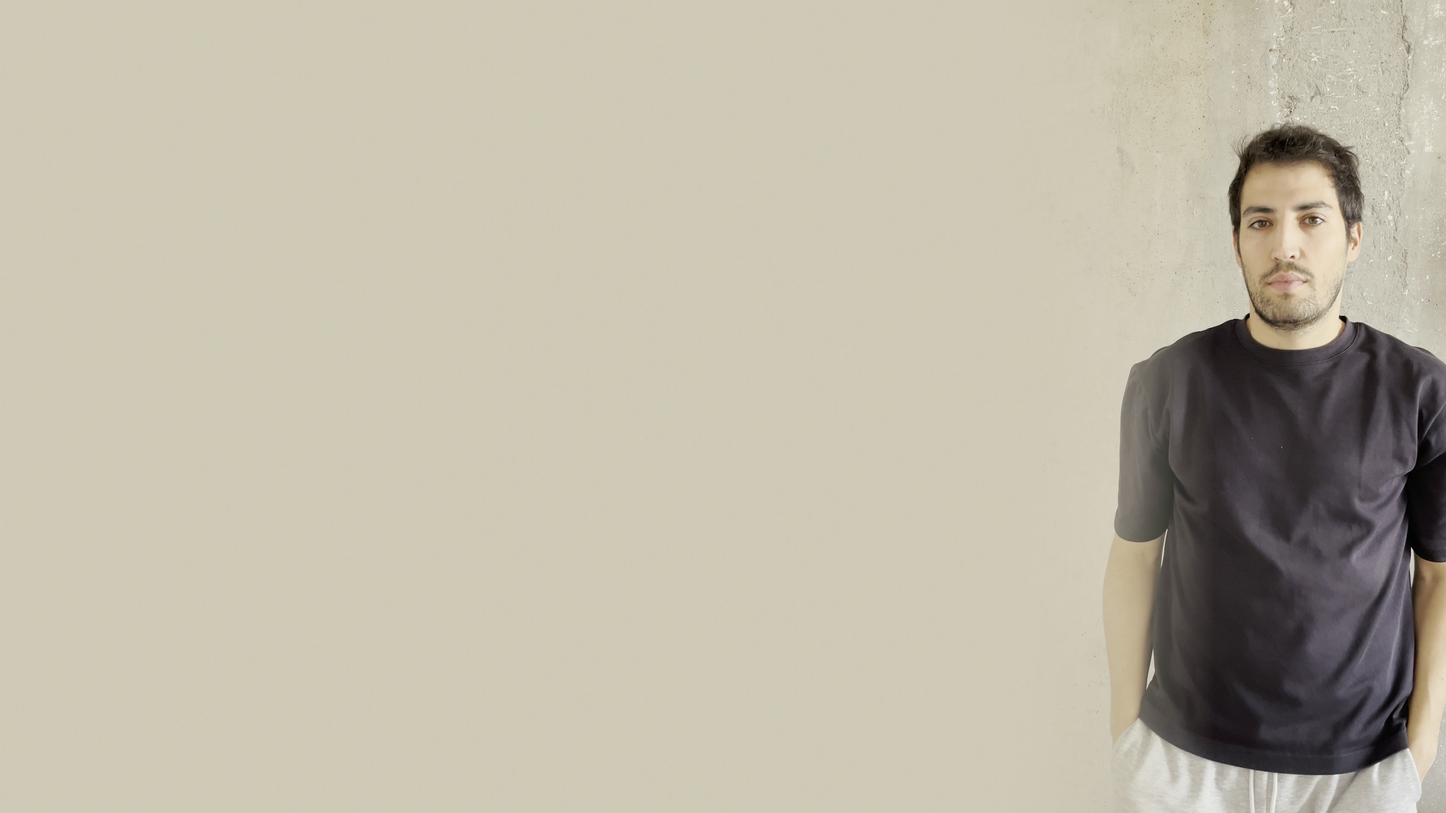
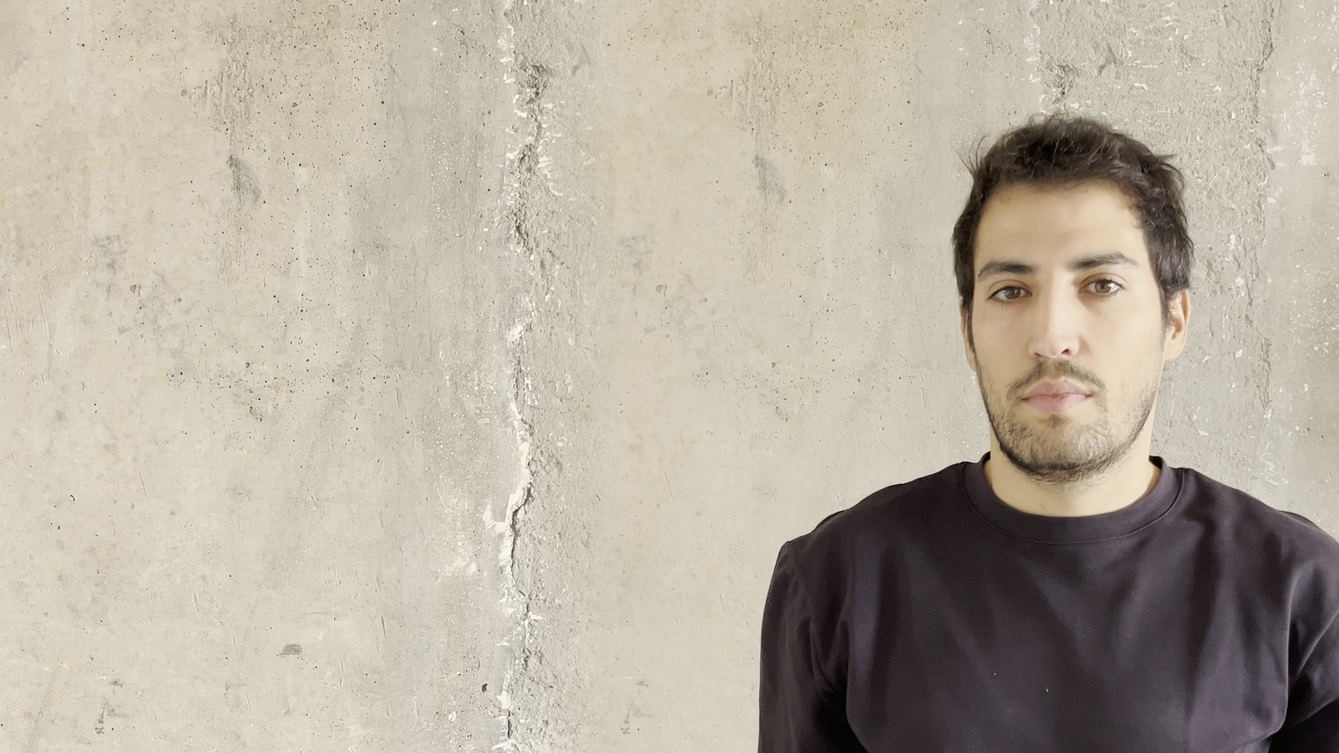
Hero: full-width concrete wall with Martin on the right
- Desktop (>=1200px): wall fills the first screen; composite from the
  45.5 s frame (head to mid-chest, full resolution) plus the clip's
  empty-wall frames extending the wall left; headline on the wall over a
  page-colour wash (55% light / 82% dark token), bottom fades to cream
- Tablets: same wide image, 16:9 above the text; phones: full-resolution
  head-and-shoulders crop; one <picture> serves each device its own file

diff --git a/components/Hero.module.css b/components/Hero.module.css
@@ -1,4 +1,5 @@
-/* Phones: the photo stacks above the text, its bottom fading into the page. */
+/* Phones: the head-and-shoulders crop stacks above the text, its bottom
+   fading into the page. */
 .photo {
   position: relative;
   aspect-ratio: 4 / 3;
@@ -10,16 +11,27 @@
   background: linear-gradient(to bottom, transparent 55%, var(--bg) 100%);
 }
 
-/* Desktop: the photo fills the whole Hero. The gradient is solid page colour
-   behind the text column (which ends at ~55% of the width) and clears towards
-   the right, where the subject is. */
-/* Phones: the crop is already framed on the face. Desktop: keep the subject,
-   on the right of the wide composite, in frame. */
+/* Phones: the crop is already framed on the face. */
 .image {
   object-position: 50% 30%;
 }
 
-@media (min-width: 768px) {
+/* Tablets: the wide image, still stacked above the text. */
+@media (min-width: 768px) and (max-width: 1199.98px) {
+  .photo {
+    aspect-ratio: 16 / 9;
+  }
+
+  .image {
+    object-position: var(--hero-focus);
+  }
+}
+
+/* Wide screens (≥1200px; narrower ones put the subject under the text): the
+   concrete wall fills the whole first screen, the subject on the right. A page-colour wash on the left keeps the headline readable (its
+   strength is a token: light text in dark mode needs more), and the bottom
+   fades into the page so the hero ends on the site's own colour. */
+@media (min-width: 1200px) {
   .image {
     object-position: var(--hero-focus);
   }
@@ -31,12 +43,13 @@
   }
 
   .gradient {
-    background: linear-gradient(
-      to right,
-      var(--bg) 0,
-      var(--bg) 55%,
-      color-mix(in oklab, var(--bg) 60%, transparent) 64%,
-      transparent 80%
-    );
+    background:
+      linear-gradient(to bottom, transparent 72%, var(--bg) 100%),
+      linear-gradient(
+        to right,
+        color-mix(in oklab, var(--bg) var(--hero-wash), transparent) 0,
+        color-mix(in oklab, var(--bg) var(--hero-wash), transparent) 48%,
+        transparent 66%
+      );
   }
 }

diff --git a/components/Hero.tsx b/components/Hero.tsx
@@ -3,9 +3,10 @@ import type { CSSProperties } from "react";
 import { profile } from "@/content/profile";
 import s from "./Hero.module.css";
 
-// Desktop: the photo fills the Hero behind the text, under a cream gradient
+// Wide screens (≥1200px): the photo fills the Hero behind the text, under a cream gradient
 // that is solid behind the text column and clears on the right where the
-// subject is. Phones: the photo sits above the text and fades into the page.
+// subject is. Narrower screens: the photo sits above the text and fades into
+// the page (phones get a head-and-shoulders crop, tablets the wide image).
 // The section fills the first screen below the site header (4.75rem), so the
 // dark Work section never peeks in on load.
 export function Hero() {
@@ -47,7 +48,7 @@ export function Hero() {
       </div>
 
       <div className="relative container-page grid flex-1 content-center pt-6 pb-16 md:py-16">
-        <div className="md:w-[55%]">
+        <div className="min-[1200px]:w-[55%]">
           <h1 className="text-display text-balance">{profile.jobTitle}</h1>
           <p className="mt-6 text-2xl font-medium tracking-tight md:text-3xl">
             {profile.tagline}

diff --git a/content/profile.ts b/content/profile.ts
@@ -17,15 +17,17 @@ export const profile = {
   linkedin: "https://www.linkedin.com/in/martin-calo-garcia/",
   github: "https://github.com/martincalo",
 
-  // Hero photo. Desktop: public/hero.jpg (3840×2160, subject in the right
-  // third, wall extended to the left). Phones: public/hero-mobile.jpg (4:3
-  // crop on head and shoulders). Both made from a frame of "Personal
-  // Picture.MOV" at 45.5 s; `focus` keeps the subject in frame on desktop.
+  // Hero photo, from "Personal Picture.MOV". Desktop: public/hero.jpg
+  // (3556×2000): the frame at 45.5 s cropped head to mid-chest at full
+  // resolution, on the right; the left is the empty wall from the clip's first
+  // seconds (same camera position), colour-matched. Phones:
+  // public/hero-mobile.jpg (1600×1200, head and shoulders). `focus` keeps the
+  // subject in frame on desktop when the screen is narrower than 16:9.
   heroImage: {
     src: "/hero.jpg",
     mobileSrc: "/hero-mobile.jpg",
     alt: "Martin Calo",
-    focus: "84% 25%",
+    focus: "85% 30%",
   },
 } as const;
 

diff --git a/app/globals.css b/app/globals.css
@@ -19,6 +19,9 @@
   /* Text panel inside stage sections: a slightly darker stage. */
   --stage-panel: color-mix(in oklab, var(--stage), #000 22%);
 
+  /* Page-colour wash behind the Hero text, over the photo. */
+  --hero-wash: 55%;
+
   /* Focus ring colour; stage sections override it with --stage-accent. */
   --focus: var(--ink);
 }
@@ -32,6 +35,7 @@
     --label: #9a978e;
     --line: #2e2d29;
     --stage: #2f2e2a; /* lighter than the page so stage sections stay distinct */
+    --hero-wash: 82%;
   }
 }
 

diff --git a/CLAUDE.md b/CLAUDE.md
@@ -83,7 +83,7 @@ public/
 ## Homepage sections (in order)
 
 1. **Header:** "martin calo" wordmark (mono) left; nav right: work, books, contact (in-page anchors).
-2. **Hero** (fills the first screen below the header): full-bleed photo (`public/hero.jpg` on desktop: 3840×2160 composite, subject in the right third, wall extended left; `public/hero-mobile.jpg` on phones: 4:3 head-and-shoulders crop; served through one `<picture>` via `getImageProps`, so each device downloads only its own; both from a frame of `Personal Picture.MOV` at 45.5 s, HDR converted to SDR; save as standard 4:2:0 JPEG — ffmpeg's full-range 4:4:4 JPEG hung the Next.js image optimizer) under a page-colour gradient that is solid behind the text and clears to the right where the subject is; on phones the photo stacks above the text. Text, top to bottom: h1 = the role (`profile.jobTitle`, "Full-Stack Software Engineer", must match LinkedIn); tagline "Building reliable systems." (not a heading); subtitle. No eyebrow, no contact links.
+2. **Hero** (fills the first screen below the header). ≥1200px: the concrete wall fills the whole hero, Martin on the right (`public/hero.jpg`, 3556×2000: his frame at 45.5 s of `Personal Picture.MOV`, head to mid-chest at full resolution, with the empty-wall frames from the clip's first seconds extending the wall to the left, colour-matched); the headline sits on the wall over a page-colour wash (`--hero-wash`: 55% light, 82% dark) and the hero fades into the page at the bottom. 768–1199px: the same wide image in a 16:9 box above the text. Phones: `public/hero-mobile.jpg` (1600×1200 head-and-shoulders crop) above the text. One `<picture>` via `getImageProps`, so each device downloads only its own image. Save JPEGs as standard 4:2:0 (ffmpeg's full-range 4:4:4 hung the local image optimizer). Text: h1 = the role (`profile.jobTitle`, must match LinkedIn); tagline "Building reliable systems." (not a heading); subtitle. No eyebrow, no contact links. Concrete stays in the hero only: the rest of the page keeps the cream background. A reshoot (landscape, more wall on the left, a slight smile, relaxed pose) would improve the photo.
 3. **Experience sections** (dark "stage" background, reverse chronological). Each is a video section (see "Video sections" below): label in mono capitals without numbers (`NOW · METRIFY · BERLIN`), title, 3 short paragraphs (context, what I did, outcome), stack tags in mono, and a "Read the full story →" link to `/work/[slug]`. Text alternates sides on desktop (left, right, left).
    - **Metrify, now:** digitalizing the smart meter market. Video: `Meter 3.mp4` (1080p, no watermark), first 20 s at 2× (`SPEED=2 scripts/encode-video.sh meter "Meter 3.mp4" 0-20` → 10 s) so the counter visibly rolls; shown as the whole 16:9 frame on desktop (`frame: "whole"`), and also in the story header. The earlier `Meter.mp4` / `Meter 1.mp4` are watermarked iStock previews and must never be published.
    - **Tesla:** from machine controls to factory software. Video: a drive in a Tesla (`Tesla 3.mp4`, 36–44 s). Martin confirmed the right to publish the Tesla clips (30 Sept).
